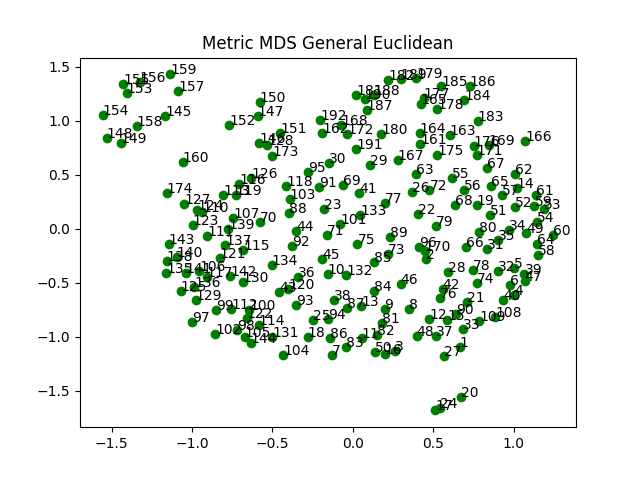
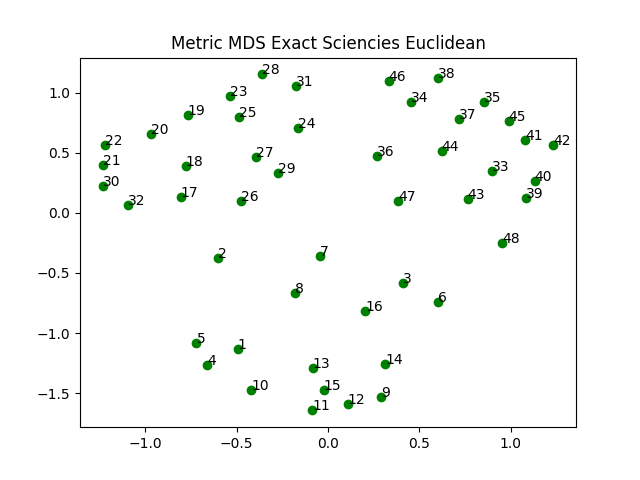
prograbdno

diff --git a/templates/Cluster.php b/templates/Cluster.php
@@ -51,10 +51,16 @@
 
     <h1>DENDROGRAM</h1>
     <div>
+        <a href="/Cluster/1"> General</a>
+        <a href="/Cluster/2"> Social Sciences </a>
+        <a href="/Cluster/3"> Computing </a>
+        <a href="/Cluster/4"> Medicine </a>
+        <a href="/Cluster/5"> Exact Sciences </a>
+
 <form action="" method="post">
 
         <label for="name">Grupos: </label>
-        <input type="number" id="name"  step="0.5" pattern="^\d*(\.\d{0,2})?$" name="name" min=1 required /><br>
+        <input type="number" id="name"  step="0.01" pattern="^\d*(\.\d{0,2})?$" name="name" min=1 required /><br>
         <input type="submit" id="send-signup" name="signup" value="Enviar" />
 </form>
 </div>

diff --git a/templates/MDS.php b/templates/MDS.php
@@ -61,6 +61,17 @@
 
 
     <h1>METRIC MDS EUCLIDEAN</h1>
+    <form action="" method="post">
+
+        
+        <label for="cars">Tipo de distancia:</label>
+  <select id="carlist" name="carlist">
+    <option value="euclidean">Euclidean</option>
+    <option value="precomputed">Precomputed</option>
+    <option value="manhattan">Manhattan</option>
+  </select>
+        <input type="submit" id="send-signup" name="signup" value="Enviar" />
+</form>
     <body onmousedown="return false;">
     <div id="wrapper" style="margin-top: 50px">
         <canvas id="myCanvas" width="800" height="500">
